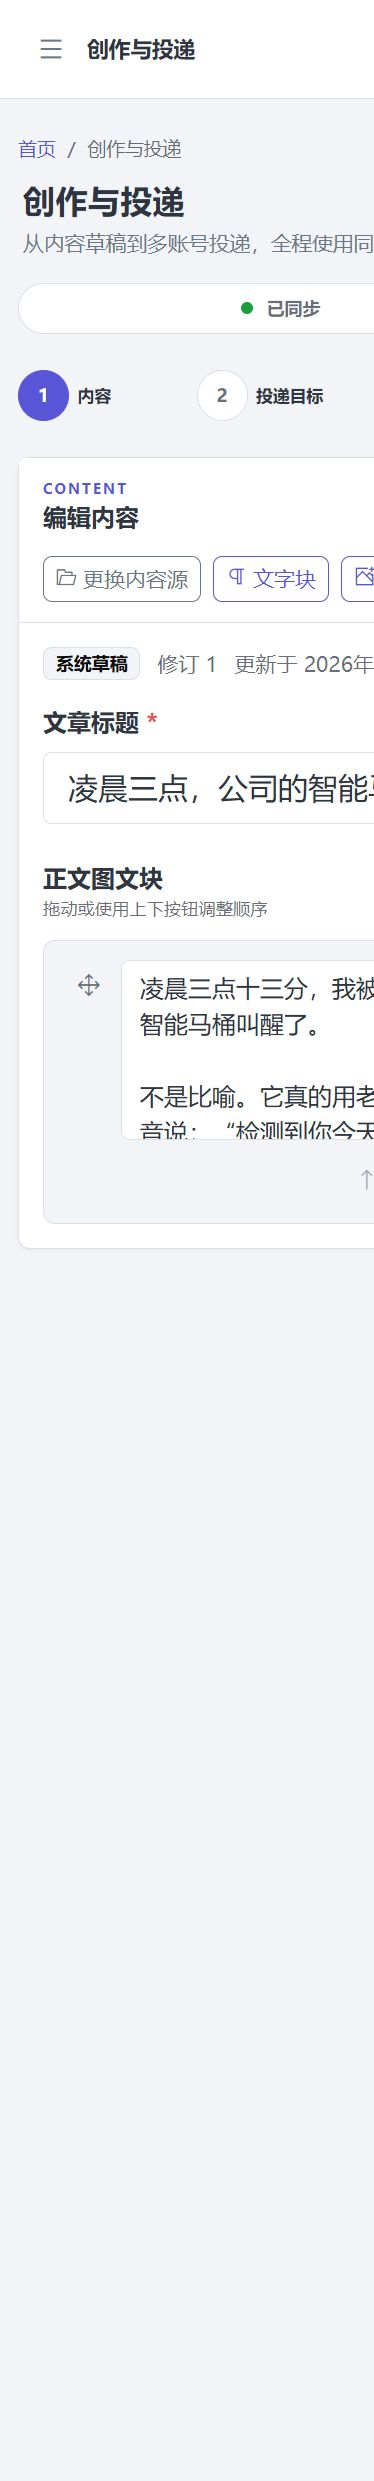
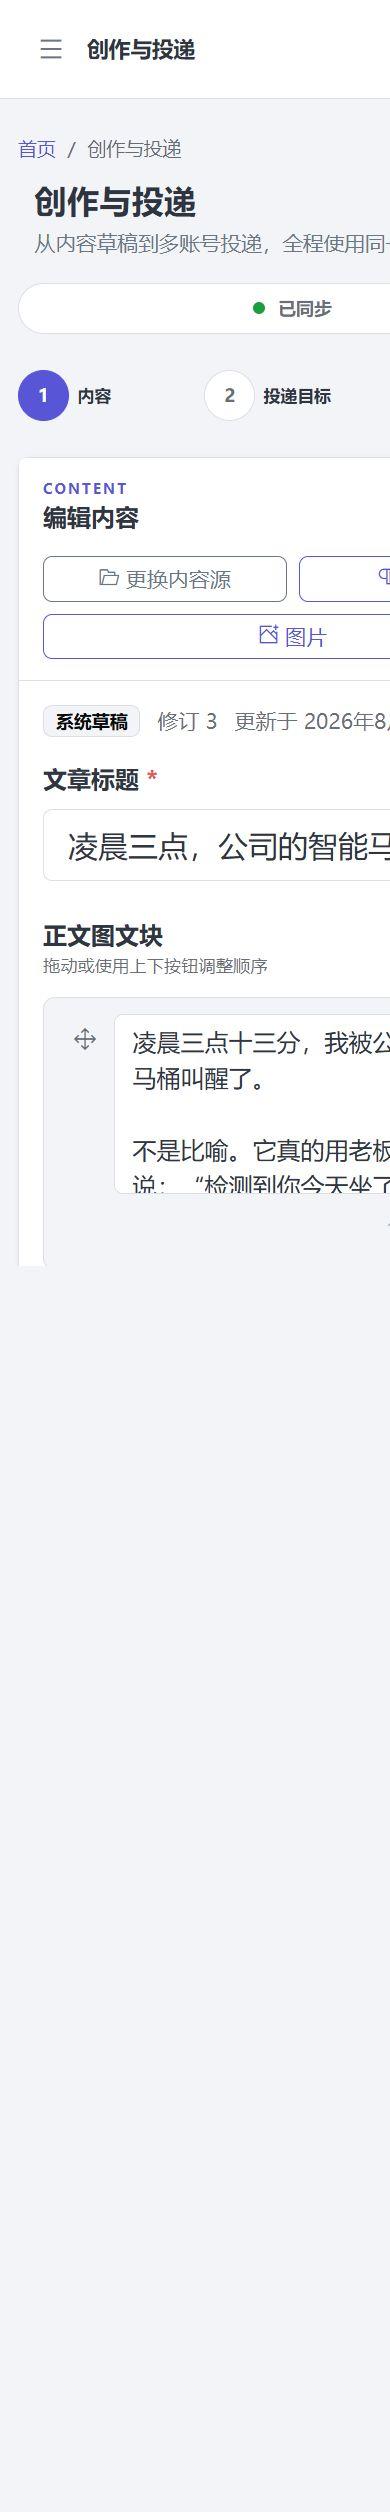
test(frontend): lock mobile studio viewport boundaries

diff --git a/tests/frontend/test_content_studio_browser.py b/tests/frontend/test_content_studio_browser.py
@@ -1,0 +1,202 @@
+"""Content Studio 浏览器布局回归。
+
+该测试需要显式设置 ``ARTICLEOPS_FRONTEND_BASE_URL``，只访问隔离 QA 服务。
+它不登录、不创建 DeliveryPlan，也不触发平台操作。
+"""
+
+import os
+from pathlib import Path
+
+import pytest
+from playwright.async_api import async_playwright
+
+
+BASE_URL = os.getenv("ARTICLEOPS_FRONTEND_BASE_URL", "").rstrip("/")
+BROWSER_PATH = os.getenv("ARTICLEOPS_CHROMIUM_EXECUTABLE", "").strip()
+
+
+def _outside_viewport(row: dict, viewport_width: int) -> bool:
+    return row["left"] < -0.5 or row["right"] > viewport_width + 0.5
+
+
+@pytest.mark.asyncio
+@pytest.mark.skipif(not BASE_URL, reason="需要显式隔离 QA URL")
+async def test_studio_key_controls_stay_inside_mobile_and_tablet_viewports() -> None:
+    executable = Path(BROWSER_PATH) if BROWSER_PATH else None
+    if executable and not executable.is_file():
+        pytest.fail(f"Chromium 不存在: {executable}")
+
+    selectors = {
+        "studio": "#content-studio",
+        "workspace": "#studio-workspace",
+        "main": ".studio-main",
+        "cards": ".studio-main > .studio-card",
+        "card_headers": ".studio-card-header",
+        "title": "#draft-title",
+        "blocks": ".content-block",
+        "textareas": ".block-content textarea",
+        "block_actions": ".block-actions",
+        "target_builder": ".target-builder",
+        "execute_bar": ".execute-bar",
+    }
+
+    async with async_playwright() as playwright:
+        api = await playwright.request.new_context(base_url=BASE_URL)
+        draft_response = await api.post(
+            "/api/content-drafts",
+            data={
+                "title": "QA 边界测试长标题：移动端关键编辑控件必须完整可见",
+                "blocks": [
+                    {
+                        "block_id": "qa-browser-text",
+                        "type": "text",
+                        "position": 0,
+                        "text": "这是一段只用于隔离浏览器布局回归的正文。",
+                    }
+                ],
+            },
+        )
+        assert draft_response.ok
+        draft_id = (await draft_response.json())["draft_id"]
+        await api.dispose()
+
+        browser = await playwright.chromium.launch(
+            headless=True,
+            executable_path=str(executable) if executable else None,
+        )
+        try:
+            for width, height in ((390, 844), (1024, 768)):
+                page = await browser.new_page(viewport={"width": width, "height": height})
+                console_errors: list[dict] = []
+                page.on(
+                    "console",
+                    lambda message: console_errors.append(
+                        {"text": message.text, "location": message.location}
+                    )
+                    if message.type == "error"
+                    else None,
+                )
+                await page.goto(
+                    f"{BASE_URL}/upload?draft_id={draft_id}",
+                    wait_until="networkidle",
+                )
+                await page.locator("#studio-workspace:not(.d-none)").wait_for()
+
+                rows = await page.evaluate(
+                    """selectors => Object.entries(selectors).flatMap(([name, selector]) =>
+                        [...document.querySelectorAll(selector)].map((element, index) => {
+                            const rect = element.getBoundingClientRect();
+                            return {name, index, left: rect.left, right: rect.right,
+                                width: rect.width, top: rect.top, bottom: rect.bottom};
+                        }))""",
+                    selectors,
+                )
+                clipped = [row for row in rows if _outside_viewport(row, width)]
+                body_overflow = await page.evaluate(
+                    """() => ({innerWidth, documentWidth: document.documentElement.scrollWidth,
+                        bodyWidth: document.body.scrollWidth,
+                        bodyOverflowX: getComputedStyle(document.body).overflowX})"""
+                )
+
+                assert body_overflow["bodyOverflowX"] != "hidden"
+                assert body_overflow["documentWidth"] <= width
+                assert body_overflow["bodyWidth"] <= width
+                assert not clipped, f"{width}px 关键元素超出视口: {clipped}"
+                relevant_errors = [
+                    error
+                    for error in console_errors
+                    if not error["location"].get("url", "").endswith("/favicon.ico")
+                ]
+                assert not relevant_errors
+                await page.close()
+        finally:
+            await browser.close()
+
+
+@pytest.mark.asyncio
+@pytest.mark.skipif(not BASE_URL, reason="需要显式隔离 QA URL")
+async def test_account_target_selection_persists_without_creating_plan() -> None:
+    executable = Path(BROWSER_PATH) if BROWSER_PATH else None
+    if executable and not executable.is_file():
+        pytest.fail(f"Chromium 不存在: {executable}")
+
+    async with async_playwright() as playwright:
+        api = await playwright.request.new_context(base_url=BASE_URL)
+        draft_response = await api.post(
+            "/api/content-drafts",
+            data={
+                "title": "QA 多账号目标持久化",
+                "blocks": [
+                    {
+                        "block_id": "qa-target-text",
+                        "type": "text",
+                        "position": 0,
+                        "text": "只保存系统投递目标，不执行任何计划。",
+                    }
+                ],
+            },
+        )
+        assert draft_response.ok
+        draft_id = (await draft_response.json())["draft_id"]
+
+        accounts_response = await api.get(
+            "/api/platforms/xiaoheihe/accounts?usable=true"
+        )
+        assert accounts_response.ok
+        accounts = (await accounts_response.json())["accounts"]
+        valid_accounts = [
+            account for account in accounts if account["session_status"] == "VALID"
+        ]
+        assert len(valid_accounts) == 2
+
+        browser = await playwright.chromium.launch(
+            headless=True,
+            executable_path=str(executable) if executable else None,
+        )
+        page = await browser.new_page(viewport={"width": 390, "height": 844})
+        execute_requests: list[str] = []
+        page.on(
+            "request",
+            lambda request: execute_requests.append(request.url)
+            if "/delivery-plans" in request.url
+            else None,
+        )
+        try:
+            await page.goto(f"{BASE_URL}/upload?draft_id={draft_id}", wait_until="networkidle")
+            await page.locator("#studio-workspace:not(.d-none)").wait_for()
+            account_select = page.locator("#target-account")
+            assert await account_select.is_disabled()
+
+            await page.locator(
+                'label[for="target-platform-xiaoheihe"]'
+            ).click()
+            await account_select.locator("option").nth(2).wait_for(state="attached")
+            assert await account_select.input_value() == ""
+            option_labels = await account_select.locator("option").all_text_contents()
+            assert [account["display_name"] for account in valid_accounts] == [
+                label.split(" · ****", 1)[0] for label in option_labels[1:]
+            ]
+
+            selected = valid_accounts[0]
+            await account_select.select_option(selected["account_id"])
+            await page.locator("#add-target").click()
+            await page.locator("#targets-list .target-row").wait_for()
+            assert await page.locator("#target-count").text_content() == "1 个目标"
+
+            await page.reload(wait_until="networkidle")
+            await page.locator("#studio-workspace:not(.d-none)").wait_for()
+            assert await page.locator("#target-count").text_content() == "1 个目标"
+            assert selected["display_name"] in await page.locator(
+                "#targets-list"
+            ).text_content()
+            assert execute_requests == []
+
+            persisted = await api.get(f"/api/content-drafts/{draft_id}")
+            assert persisted.ok
+            targets = (await persisted.json())["targets"]
+            assert len(targets) == 1
+            assert targets[0]["account_id"] == selected["account_id"]
+        finally:
+            await page.close()
+            await browser.close()
+            await api.dispose()
